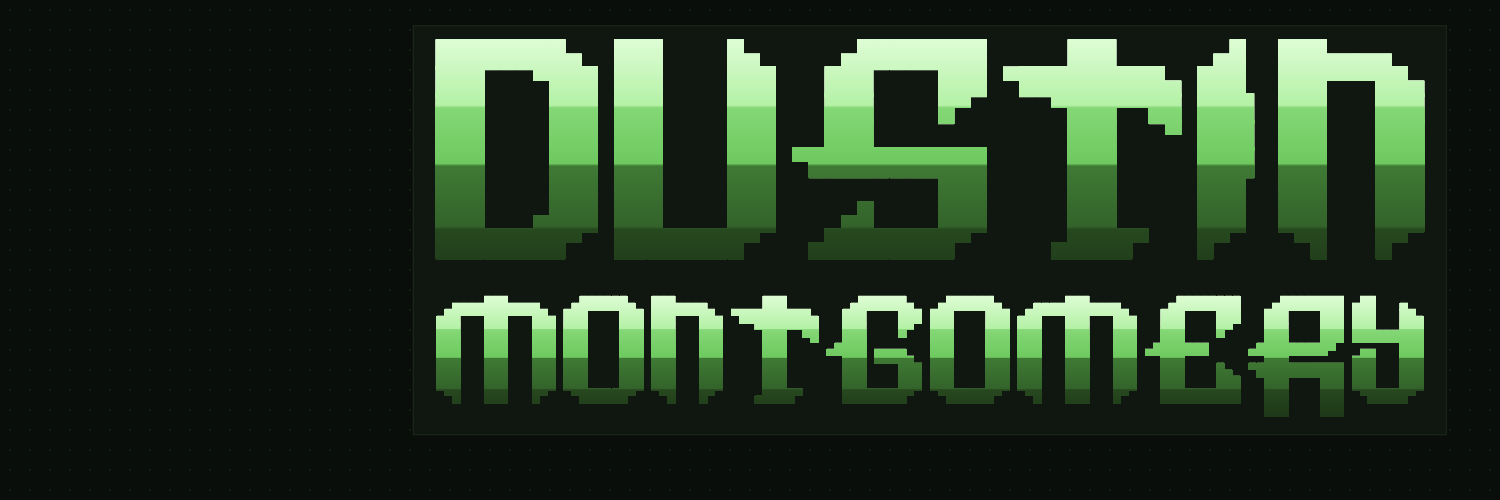
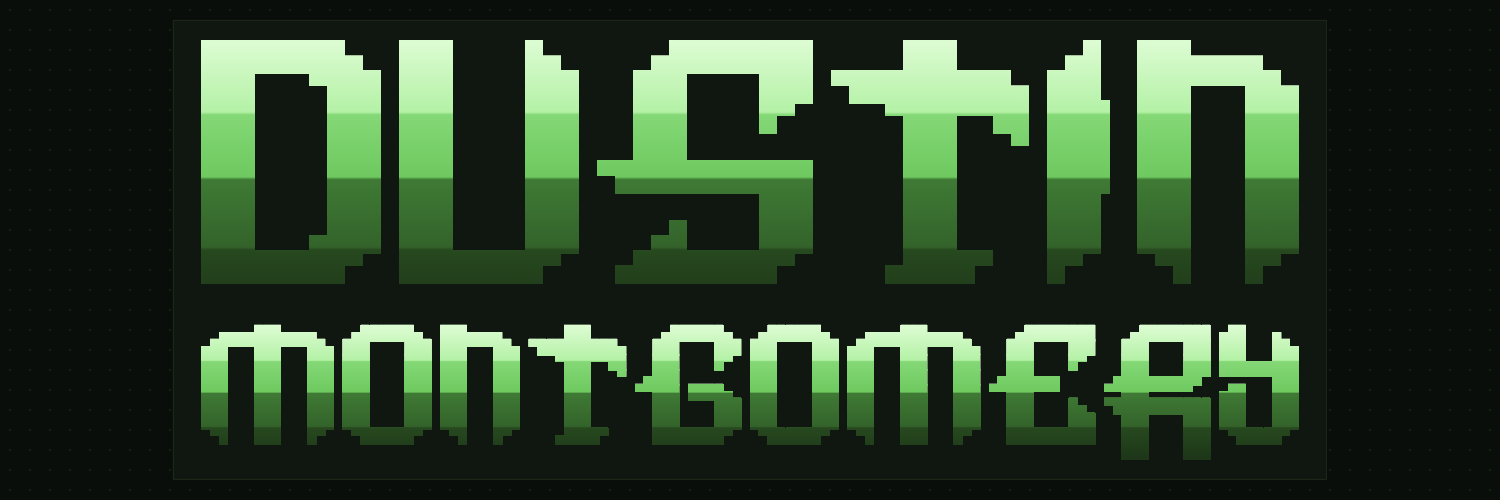
X header: bigger, centered art
The art fills about three quarters of the header, centered for mobile. Panel padding now scales with the font so the overlay never reaches outside the panel (it showed as a light line at the top).

diff --git a/social/make_banners.py b/social/make_banners.py
@@ -32,14 +32,17 @@ art_css = style[style.index('.artband'):]          # the hero art rules (shadow 
 # the profile photo over the banner (LinkedIn: bottom-left quarter; X: bottom-left).
 BANNERS = {
     'linkedin-banner': (1584, 396, 25, 'right:56px;top:50%;transform:translateY(-50%)'),
-    'x-header':        (1500, 500, 27, 'left:62%;top:46%;transform:translate(-50%,-50%)'),
+    'x-header':        (1500, 500, 30, 'left:50%;top:50%;transform:translate(-50%,-50%)'),
 }
 
 for name, (w, h, px, place) in BANNERS.items():
+    # The overlay reaches .6em past the text; it must stay inside the panel, because
+    # outside it there is nothing to blend with and it shows as a light line.
+    pad = max(16, round(px * .6) + 3)
     page = f"""<!doctype html><meta charset="utf-8"><style>
 html,body{{margin:0;width:{w}px;height:{h}px;overflow:hidden;background:#0a0e0a}}
 body{{background-image:radial-gradient(#132013 1.5px,transparent 1.5px);background-size:20px 20px}}
-.art-box{{position:absolute;{place};background:#101710;border:1px solid #1d291b;padding:16px 22px}}
+.art-box{{position:absolute;{place};background:#101710;border:1px solid #1d291b;padding:{pad}px {pad + 6}px}}
 {art_css}
 /* The R's tail crosses the bottom of the text box. Where the gradient ends and the
    dark fill below it starts, rounding can leave a 1px row covered by neither, and the
